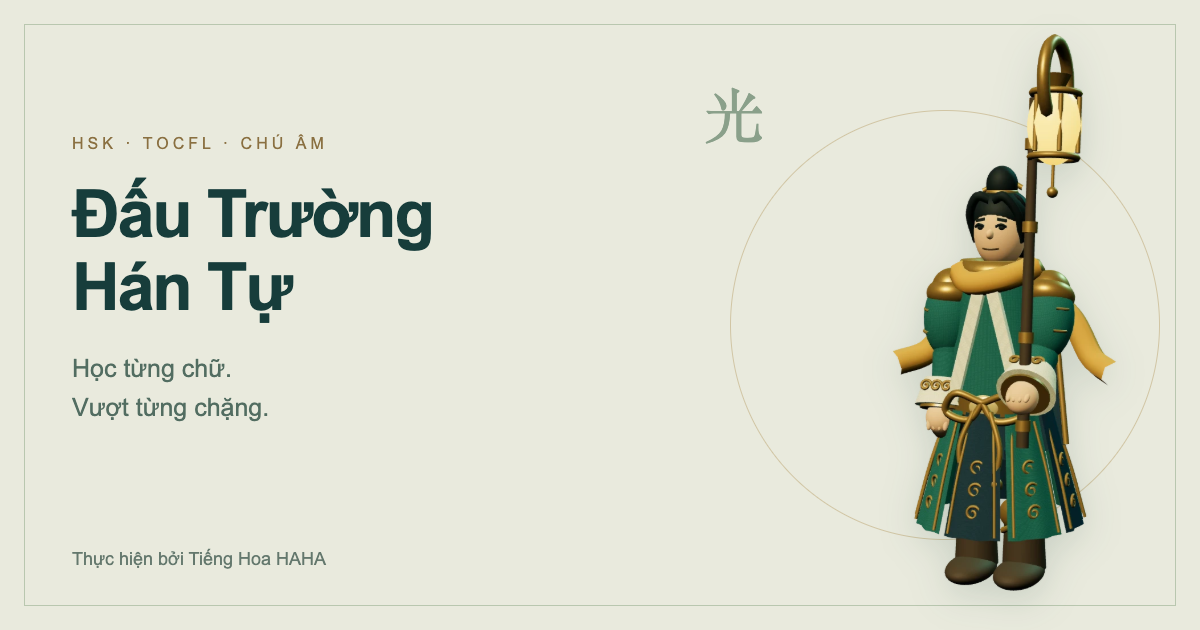
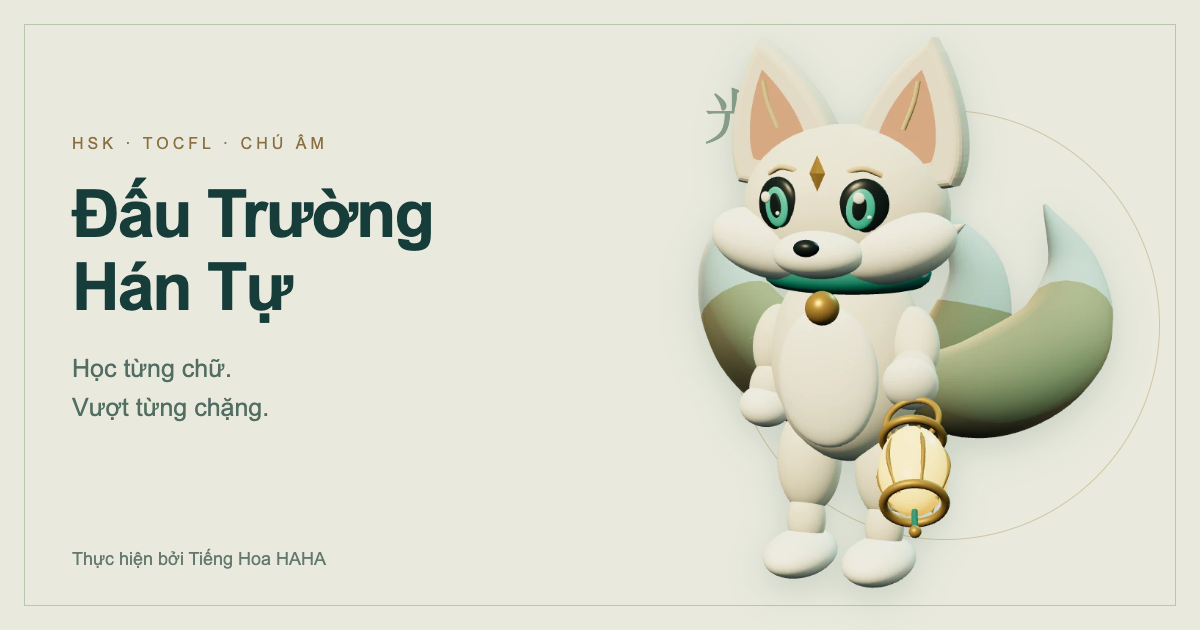
feat: replace human hero with articulated lantern fox

Changed region(s): [[0.555, 0.0603, 0.925, 0.9349]]

diff --git a/index.html b/index.html
@@ -6,7 +6,7 @@
  <section id="settings" class="settings-bar" hidden><label><input id="reduce-motion" type="checkbox"> Giảm chuyển động</label><label><input id="high-contrast" type="checkbox"> Tăng tương phản</label><label>Âm lượng <input id="volume" type="range" min="0" max="100" value="35"></label><p>Tiến độ và thành tích lưu trong trình duyệt này. Đổi máy hoặc xóa dữ liệu trình duyệt sẽ không có tiến độ cũ.</p></section>
  <main>
   <section id="setup-screen" class="screen setup-screen" aria-labelledby="setup-title">
-   <div class="setup-story"><h1 id="setup-title">Học từng chữ.<br>Vượt từng chặng.</h1><p>Chọn nội dung luyện trước. Mỗi chặng có tối đa 20 từ. Luyện mỗi từ đúng 3 lần, xen kẽ các từ khác, rồi hạ thủ lĩnh. Bạn có thể dừng và tiếp tục phần đang luyện trên máy này.</p><div class="story-art"><div class="orbit orbit-a"></div><div class="orbit orbit-b"></div><img src="/original/art/sculpted/hero-stand.webp" alt="Pháp sư cầm đèn, áo xanh thêu vàng" class="setup-hero"><span class="story-rune rune-one" aria-hidden="true">光</span><span class="story-rune rune-two" aria-hidden="true">風</span><span class="story-rune rune-three" aria-hidden="true">水</span><small>HỌC · TRIỆU HỒI · CHINH PHỤC</small></div></div>
+   <div class="setup-story"><h1 id="setup-title">Học từng chữ.<br>Vượt từng chặng.</h1><p>Chọn nội dung luyện trước. Mỗi chặng có tối đa 20 từ. Luyện mỗi từ đúng 3 lần, xen kẽ các từ khác, rồi hạ thủ lĩnh. Bạn có thể dừng và tiếp tục phần đang luyện trên máy này.</p><div class="story-art"><div class="orbit orbit-a"></div><div class="orbit orbit-b"></div><img src="/original/art/sculpted/hero-stand.webp" alt="Cáo nhỏ ba đuôi đeo khăn xanh, cầm đèn lồng" class="setup-hero"><span class="story-rune rune-one" aria-hidden="true">光</span><span class="story-rune rune-two" aria-hidden="true">風</span><span class="story-rune rune-three" aria-hidden="true">水</span><small>HỌC · TRIỆU HỒI · CHINH PHỤC</small></div></div>
    <div class="setup-form"><button id="home-back" class="route-back" type="button" disabled>← Quay lại</button><div class="step-marker"><span id="step-number">01</span><p id="step-label">CHỌN NỘI DUNG</p></div><h2 id="choice-title">Bạn muốn luyện gì?</h2><div id="mode-choices" class="mode-choices"><button data-mode="simplified" class="mode-choice"><b lang="zh-Hans">汉</b><span><strong>Chữ giản thể</strong><small>Nhập chữ Hán bằng bộ gõ tiếng Trung.</small></span><i>↗</i></button><button data-mode="traditional" class="mode-choice"><b lang="zh-Hant">漢</b><span><strong>Chữ phồn thể</strong><small>Luyện chữ phồn thể với HSK hoặc TOCFL.</small></span><i>↗</i></button><button data-mode="zhuyin" class="mode-choice"><b lang="zh-Hant">ㄅ</b><span><strong>Chú âm</strong><small>Dùng bàn phím tiếng Anh hoặc phím trên màn hình.</small></span><i>↗</i></button></div>
     <form id="level-form" hidden><button type="button" id="back-modes" class="text-button">← Đổi nội dung</button><p id="selected-mode" class="selected-mode"></p><label class="field-label" for="vocab-system">Hệ từ vựng</label><select id="vocab-system"><option value="hsk">HSK 3.0</option><option value="tocfl">TOCFL</option></select><label class="field-label" for="vocab-level">Cấp độ</label><select id="vocab-level"></select><label class="check-label"><input type="checkbox" id="cumulative"> Ôn cả từ vựng các cấp trước</label><p id="pool-description" class="pool-description" role="status"></p><p id="curriculum-note" class="muted"></p><button id="enter-lobby" type="submit" class="primary-button">Mở lộ trình <span>→</span></button></form>
     <p id="load-message" role="status" class="load-message"></p><details class="sources"><summary>Nguồn từ vựng &amp; thông tin trò chơi</summary><p>HSK: đề cương 11/2025; HSK 7–9 dùng chung một danh sách. TOCFL: danh sách 07/2023; C1–C2 dùng chung. Chữ phồn thể HSK được chuyển bằng OpenCC; chú âm được chuyển từ dữ liệu phát âm.</p><p>Chương trình chiến đấu và giao diện Đấu Trường Hán Tự được viết mới. Hình nhân vật có hỗ trợ AI; âm nhạc tổng hợp riêng. Dữ liệu từ vựng có nguồn và quyền sử dụng riêng.</p><p><a href="https://github.com/uranbekanarbaev/hsk-3.0-vocabulary-dataset" target="_blank" rel="noopener">Nguồn HSK</a> · <a href="https://github.com/ivankra/tocfl" target="_blank" rel="noopener">Nguồn TOCFL</a></p></details>
@@ -15,7 +15,7 @@
   <section id="lobby-screen" class="screen lobby-screen" hidden aria-labelledby="lobby-title"><div class="section-heading"><div><button id="lobby-back" class="route-back" type="button">← Chọn cấp độ</button><p class="eyebrow">LỘ TRÌNH CỦA BẠN</p><h1 id="lobby-title">Chọn chặng luyện.</h1><p id="lobby-selection"></p></div><button id="change-content" class="secondary-button">Đổi nội dung luyện</button></div><section class="curriculum-panel" aria-labelledby="curriculum-title"><div class="curriculum-heading"><div><p class="eyebrow">LỘ TRÌNH TOÀN BỘ TỪ VỰNG</p><h2 id="curriculum-title">Luyện hết bộ từ đã chọn.</h2></div><div class="coverage-total"><strong id="coverage-count">0 / 0</strong><span id="coverage-label"></span></div><button id="continue-learning" class="primary-button">Bắt đầu chặng 01 →</button></div><div class="coverage-track"><i id="coverage-fill"></i></div><p id="coverage-note"></p><div id="chapter-list" class="chapter-list"></div><nav class="chapter-pagination" aria-label="Trang danh sách chặng"><button id="chapters-prev" class="secondary-button">← Trước</button><span id="chapter-page"></span><button id="chapters-next" class="secondary-button">Tiếp →</button></nav><details class="vocabulary-catalog"><summary>Xem tất cả từ và tiến độ theo chặng</summary><label for="catalog-chapter">Chọn chặng để xem từ</label><select id="catalog-chapter"></select><div id="catalog-words" class="catalog-words"></div></details></section><details class="free-play"><summary>Đấu tự do · chọn đối thủ</summary><p>Mỗi trận có một thủ lĩnh và tối đa 20 từ được chọn ngẫu nhiên. Mỗi từ cần luyện đúng 3 lần, xen kẽ các từ khác; sau đó vẫn cần hạ thủ lĩnh. Tiến độ từ vựng được lưu vào lộ trình. Một trận không thay cho toàn bộ cấp độ.</p><div id="encounter-cards" class="encounter-cards"></div></details><div class="lobby-bottom"><div class="timing-card"><label for="lobby-seconds">Thời gian mỗi phù văn</label><div class="seconds-control"><button data-seconds="3">3s</button><button data-seconds="5">5s</button><button data-seconds="8">8s</button><button data-seconds="10">10s</button><input id="lobby-seconds" type="number" min="1" max="60" value="5" aria-label="Số giây mỗi phù văn, từ 1 đến 60"><span>giây</span></div><p>Chọn 8–10 giây nếu bạn cần thêm thời gian tìm chữ. Có thể đổi trong trận.</p></div><button id="endless-start" class="endless-card"><span>∞</span><div><strong>Đấu liên hoàn</strong><small>Tiếp tục đến khi hết HP hoặc bạn chọn dừng.</small></div><b>→</b></button></div><details class="how-to"><summary>Cách giao đấu</summary><ol><li>Chọn pháp thuật. Nhập đúng phù văn trước khi hết giờ để thi triển.</li><li>Ở lượt tấn công, đối thủ sẽ phản đòn nếu còn HP. Hộ thuẫn giúp hấp thụ sát thương.</li><li>Ở lượt phòng thủ, nhập đúng phù văn để chặn đòn và phản công. Không cần bấm F/J.</li><li>Nhập sai rồi sửa đúng vẫn gây sát thương, nhưng chưa được cộng vào 3 lần luyện đúng. Từ đó sẽ xuất hiện lại sau các từ khác.</li><li>Hết HP là kết thúc trận. Đấu tự do: luyện mỗi từ đủ 3 lần và hạ thủ lĩnh. Lộ trình: mỗi từ cần đúng 3 lần; HP thủ lĩnh cũng phải về 0. Giữa trận có tiếp sức; đối thủ không hồi HP. Khi chưa luyện đủ 3 lần mỗi từ, lớp bảo hộ giữ thủ lĩnh sống. Sau khi luyện đủ, tiếp tục gây sát thương nếu thủ lĩnh còn HP. Chỉ đấu liên hoàn mới có đối thủ mới sau mỗi lần hạ gục.</li></ol></details><p id="local-record" class="local-record"></p></section>
   <section id="battle-screen" class="screen battle-screen" hidden aria-label="Đấu trường">
    <div class="battle-heading"><div><p class="eyebrow" id="battle-kind">GIAO PHONG</p><h1 id="battle-title">Vườn kính</h1><p id="battle-selection"></p></div><div class="battle-tools"><button id="battle-back" class="route-back" type="button" aria-label="Quay lại · tạm dừng trận đấu">←</button><label for="battle-seconds">Giây / phù văn <input id="battle-seconds" type="number" min="1" max="60" value="5"></label><button id="pause-button" class="secondary-button">Tạm dừng <kbd>Esc</kbd></button></div></div>
-   <div class="battle-layout"><div class="arena-column"><div id="arena" class="summon-arena"><div class="arena-linework" aria-hidden="true"></div><svg id="spell-effect" class="spell-effect" viewBox="0 0 1000 500" preserveAspectRatio="none" aria-hidden="true"><path class="spell-ray" d="M155 370 Q350 65 800 165"/><circle class="spell-halo" cx="170" cy="340" r="82"/><circle class="spell-impact" cx="800" cy="170" r="65"/></svg><div class="round-strip"><span id="round-label">Vòng 1 / 3</span><span id="turn-label">Lượt 1</span><span id="battle-clock">0:00</span></div><div class="enemy-station"><div class="vital-card enemy-vital"><div><strong id="enemy-name">Ngọc vệ</strong><span id="enemy-hp-label">54 / 54</span></div><div class="vital-track"><i id="enemy-hp-fill"></i></div><small id="enemy-seals" hidden></small></div><img id="enemy-art" src="/original/art/sculpted/jade-guardian.webp" alt="Ngọc vệ, sinh vật giáp ngọc" draggable="false"></div><div class="hero-station"><img id="hero-art" src="/original/art/sculpted/hero-stand.webp" alt="Pháp sư triệu hồi" draggable="false"><div class="vital-card hero-vital"><div><strong>Bạn</strong><span id="hero-hp-label">100 / 100</span></div><div class="vital-track"><i id="hero-hp-fill"></i></div><small id="shield-label">Hộ thuẫn 0</small></div></div><div id="rune-zone" class="rune-zone"><p id="rune-action">PHÙ VĂN TẤN CÔNG</p><div id="active-rune" lang="zh-Hans">光</div><div id="zhuyin-progress" class="zhuyin-progress"></div><div class="rune-timer"><i id="rune-timer-fill"></i></div><span id="rune-seconds">5.0s</span></div><div id="battle-notice" class="battle-notice" role="status" aria-live="polite"></div></div>
+   <div class="battle-layout"><div class="arena-column"><div id="arena" class="summon-arena"><div class="arena-linework" aria-hidden="true"></div><svg id="spell-effect" class="spell-effect" viewBox="0 0 1000 500" preserveAspectRatio="none" aria-hidden="true"><path class="spell-ray" d="M155 370 Q350 65 800 165"/><circle class="spell-halo" cx="170" cy="340" r="82"/><circle class="spell-impact" cx="800" cy="170" r="65"/></svg><div class="round-strip"><span id="round-label">Vòng 1 / 3</span><span id="turn-label">Lượt 1</span><span id="battle-clock">0:00</span></div><div class="enemy-station"><div class="vital-card enemy-vital"><div><strong id="enemy-name">Ngọc vệ</strong><span id="enemy-hp-label">54 / 54</span></div><div class="vital-track"><i id="enemy-hp-fill"></i></div><small id="enemy-seals" hidden></small></div><img id="enemy-art" src="/original/art/sculpted/jade-guardian.webp" alt="Ngọc vệ, sinh vật giáp ngọc" draggable="false"></div><div class="hero-station"><img id="hero-art" src="/original/art/sculpted/hero-stand.webp" alt="Cáo nhỏ cầm đèn lồng" draggable="false"><div class="vital-card hero-vital"><div><strong>Bạn</strong><span id="hero-hp-label">100 / 100</span></div><div class="vital-track"><i id="hero-hp-fill"></i></div><small id="shield-label">Hộ thuẫn 0</small></div></div><div id="rune-zone" class="rune-zone"><p id="rune-action">PHÙ VĂN TẤN CÔNG</p><div id="active-rune" lang="zh-Hans">光</div><div id="zhuyin-progress" class="zhuyin-progress"></div><div class="rune-timer"><i id="rune-timer-fill"></i></div><span id="rune-seconds">5.0s</span></div><div id="battle-notice" class="battle-notice" role="status" aria-live="polite"></div></div>
     <div id="mobile-spells" class="mobile-spells"></div><form id="cast-form" class="cast-form"><label for="hanzi-input" id="cast-label">Nhập phù văn trên sân</label><div><input id="hanzi-input" type="text" lang="zh" inputmode="text" enterkeyhint="go" autocorrect="off" autocomplete="off" autocapitalize="off" spellcheck="false" placeholder="Gõ và chọn chữ Hán"><button class="primary-button" type="submit">Thi triển <span>↵</span></button></div><p id="input-hint">Chọn chữ trong bộ gõ. Gõ đúng cả từ để thi triển.</p></form>
     <div id="touch-keyboard" class="touch-keyboard" hidden><div class="keyboard-heading"><strong>Bàn phím chú âm</strong><small>Chạm ký hiệu tiếp theo hoặc bấm phím tiếng Anh.</small></div><div id="zhuyin-keys" class="zhuyin-keys"></div></div>
    </div><aside class="tactics-panel"><div class="intent-card"><p class="eyebrow">ĐỐI THỦ SẮP LÀM GÌ?</p><h2 id="enemy-intent">Phản đòn</h2><p id="intent-detail">Hoàn thành phù văn để ra chiêu.</p></div><div class="spell-heading"><h2>Pháp thuật của bạn</h2><span id="energy-label">Năng lượng 2 / 3</span></div><div class="spell-list"><button data-spell="strike" title="Xung kích: 18 sát thương, nhận 1 năng lượng. Không tốn năng lượng." class="spell-card selected"><span class="spell-symbol"><img src="/original/art/skills/strike.svg" alt="" draggable="false"></span><span><strong>Xung kích</strong><small>18 sát thương · nhận 1 năng lượng</small></span><em>0</em></button><button data-spell="ward" title="Hộ thuẫn: 10 sát thương, thêm 14 khiên. Tốn 1 năng lượng." class="spell-card"><span class="spell-symbol"><img src="/original/art/skills/ward.svg" alt="" draggable="false"></span><span><strong>Hộ thuẫn</strong><small>10 sát thương · thêm 14 khiên</small></span><em>1</em></button><button data-spell="mend" title="Hồi phục: 9 sát thương, hồi 12 HP. Tốn 2 năng lượng." class="spell-card"><span class="spell-symbol"><img src="/original/art/skills/mend.svg" alt="" draggable="false"></span><span><strong>Hồi phục</strong><small>9 sát thương · hồi 12 HP</small></span><em>2</em></button></div><div class="live-stats"><div><span>Đúng</span><strong id="live-correct">0</strong></div><div><span>Chính xác</span><strong id="live-accuracy">—</strong></div><div><span>Chuỗi</span><strong id="live-combo">0</strong></div></div><details class="battle-help"><summary>Nhắc nhanh cách chơi</summary><p>Chọn pháp thuật rồi nhập phù văn. Phòng thủ thành công sẽ chặn đòn và phản công. Hết giờ chịu 22 sát thương; nhập sai chịu 4 sát thương (chú âm: 3 mỗi phím sai). Khiên hấp thụ sát thương trước HP. Mỗi chặng có một thủ lĩnh với HP tính theo số từ. Nhập đúng tất cả từ để phá hết phong ấn và tung đòn kết liễu. Mỗi từ chưa hoàn thành giữ một phần HP được bảo vệ; phá hết phong ấn mới hạ được đối thủ. Tiếp sức giữa chặng không hồi HP cho đối thủ.</p><p>Năng lượng tối đa 3. Xung kích nạp năng lượng, Hộ thuẫn tốn 1, Hồi phục tốn 2. Xung kích: 18 sát thương. Hộ thuẫn: 10 sát thương và 14 khiên. Hồi phục: 9 sát thương và hồi 12 HP. Lượt phòng thủ gây 10 sát thương cơ bản. Thưởng tiếp sức có thể tăng sát thương.</p></details><button id="end-run" class="text-button">Dừng và xem kết quả</button></aside></div>

diff --git a/src/summoner/lantern-fox.js b/src/summoner/lantern-fox.js
@@ -1,0 +1,110 @@
+import * as T from 'three';
+
+// A purpose-built animal silhouette; no humanoid face, clothing or staff rig.
+const material=(color,roughness=.75,extra={})=>new T.MeshStandardMaterial({color,roughness,...extra});
+const fur=material('#f4e8d3'),white=material('#fff8e9'),warm=material('#d7b98d'),earPink=material('#cf9585');
+const teal=material('#287c73'),dark=material('#123b3a'),iris=material('#46b9a3',.3),ink=material('#202c30',.32);
+const gold=material('#cda255',.38,{metalness:.55}),glow=material('#ffe7a0',.35,{emissive:'#ffa431',emissiveIntensity:.8});
+const mesh=(parent,geo,mat,pos=[0,0,0],scale=[1,1,1])=>{const n=new T.Mesh(geo,mat);n.position.set(...pos);n.scale.set(...scale);n.castShadow=n.receiveShadow=true;parent.add(n);return n;};
+const ellipsoid=(p,r,m,pos,scale=[1,1,1])=>mesh(p,new T.SphereGeometry(r,32,24),m,pos,scale);
+const joint=(p,name,pos)=>{const n=new T.Group();n.name=name;n.position.set(...pos);p.add(n);return n;};
+const tube=(p,points,r,m)=>mesh(p,new T.TubeGeometry(new T.CatmullRomCurve3(points.map(v=>new T.Vector3(...v))),32,r,8,false),m);
+function ear(parent,side){
+ const pivot=joint(parent,'ear',[side*.29,.25,-.035]);pivot.rotation.z=-side*.22;
+ const shape=new T.Shape();shape.moveTo(-.21,-.05);shape.bezierCurveTo(-.23,.10,-.14,.31,0,.48);shape.bezierCurveTo(.14,.31,.25,.08,.21,-.05);shape.quadraticCurveTo(0,-.14,-.21,-.05);
+ const outer=mesh(pivot,new T.ExtrudeGeometry(shape,{depth:.085,bevelEnabled:true,bevelThickness:.045,bevelSize:.038,bevelSegments:4,curveSegments:20}),fur,[0,0,-.04]);
+ mesh(pivot,new T.ShapeGeometry(shape,24),earPink,[0,.045,.10],[.62,.72,1]);
+ tube(pivot,[[side*-.02,.12,.115],[0,.24,.116],[0,.34,.115]],.012,warm);
+ return pivot;
+}
+function tail(parent,name,points){
+ const pivot=joint(parent,name,[0,-.15,-.25]),path=new T.CatmullRomCurve3(points.map(p=>new T.Vector3(...p))),frames=path.computeFrenetFrames(40,false),v=[],norm=[],uv=[],idx=[];
+ // Smooth tapered brush tail, cream body with an ivory tip.
+ for(let row=0;row<=40;row++){
+  const t=row/40,c=path.getPointAt(t),r=.008+Math.sin(Math.PI*Math.pow(t,.78))*.255;
+  for(let col=0;col<=16;col++){const a=col/16*Math.PI*2,n=frames.normals[row].clone().multiplyScalar(Math.cos(a)).addScaledVector(frames.binormals[row],Math.sin(a));v.push(c.x+n.x*r,c.y+n.y*r,c.z+n.z*r);norm.push(n.x,n.y,n.z);uv.push(col/16,t);}
+ }
+ for(let row=0;row<40;row++)for(let col=0;col<16;col++){const a=row*17+col;idx.push(a,a+17,a+1,a+1,a+17,a+18);}
+ const g=new T.BufferGeometry();g.setAttribute('position',new T.Float32BufferAttribute(v,3));g.setAttribute('normal',new T.Float32BufferAttribute(norm,3));g.setAttribute('uv',new T.Float32BufferAttribute(uv,2));g.setIndex(idx);g.addGroup(0,16*6*27,0);g.addGroup(16*6*27,16*6*13,1);const n=mesh(pivot,g,[warm,white]);
+ return pivot;
+}
+export function createLanternFox(actor){
+ const {root,joints:j}=actor;actor.isFox=true;
+ const body=j.body=joint(root,'fox-body',[0,1.0,0]);
+ ellipsoid(body,.39,fur,[0,0,0],[.92,1.22,.82]);
+ ellipsoid(body,.30,white,[0,-.045,.255],[.78,1.06,.34]);
+ const head=j.head=joint(body,'fox-head',[0,.67,.035]);
+ ellipsoid(head,.43,fur,[0,0,0],[1.12,.91,.85]);
+ // Long pointed cheek tufts and a small forward muzzle make the fox readable.
+ for(const s of [-1,1]){
+  const cheek=ellipsoid(head,.23,white,[s*.30,-.14,.17],[1.2,.65,.82]);cheek.rotation.z=s*.28;
+  const tuft=mesh(head,new T.ConeGeometry(.12,.28,24),fur,[s*.46,-.10,.07]);tuft.rotation.z=-s*1.05;
+  const eye=joint(head,'eye-'+s,[s*.195,.045,.306]);eye.rotation.y=s*.32;eye.rotation.z=-s*.13;
+  ellipsoid(eye,.108,ink,[0,0,0],[1.03,1.15,.35]);
+  ellipsoid(eye,.078,iris,[-s*.012,-.006,.031],[.80,1.12,.20]);
+  ellipsoid(eye,.049,ink,[-s*.018,.0,.046],[.62,1.10,.15]);
+  ellipsoid(eye,.025,white,[-.025,.041,.055],[1,1,.45]);ellipsoid(eye,.010,white,[.030,-.035,.05]);
+  j[s<0?'eyeL':'eyeR']=eye;
+  tube(head,[[s*.10,.19,.29],[s*.19,.21,.29],[s*.26,.18,.255]],.012,warm);
+ }
+ ellipsoid(head,.17,white,[0,-.16,.335],[1.2,.62,.95]);
+ const nose=ellipsoid(head,.057,ink,[0,-.12,.483],[1,.65,.68]);nose.rotation.z=Math.PI;
+ tube(head,[[0,-.15,.474],[0,-.19,.474],[-.053,-.207,.447]],.007,dark);
+ tube(head,[[0,-.19,.474],[.053,-.207,.447]],.007,dark);
+ const rune=mesh(head,new T.OctahedronGeometry(.060),gold,[0,.19,.351],[.6,1.3,.25]);
+ j.earL=ear(head,-1);j.earR=ear(head,1);
+ // Soft scarf and two loose ends; gold is reserved for small trim and the bell.
+ const collar=mesh(body,new T.TorusGeometry(.265,.072,12,48),teal,[0,.39,.01],[1.14,1,.90]);collar.rotation.x=Math.PI/2;
+ const scarf=j.cape=joint(body,'scarf-tail',[-.17,.37,-.13]);
+ const ribbon=new T.Shape();ribbon.moveTo(-.08,0);ribbon.bezierCurveTo(-.12,-.2,-.35,-.25,-.32,-.51);ribbon.lineTo(-.23,-.47);ribbon.lineTo(-.17,-.54);ribbon.bezierCurveTo(-.15,-.30,.07,-.27,.08,0);ribbon.closePath();
+ const rm=teal.clone();rm.side=T.DoubleSide;mesh(scarf,new T.ShapeGeometry(ribbon,24),rm);tube(scarf,[[-.07,-.04,.01],[-.10,-.18,.01],[-.24,-.36,.01],[-.25,-.46,.01]],.009,gold);
+ ellipsoid(body,.075,gold,[0,.27,.33]);tube(body,[[-.035,.28,.383],[.035,.28,.383]],.006,dark);
+ for(const [side,s]of [['L',-1],['R',1]]){
+  const arm=j['arm'+side]=joint(body,'fox-arm-'+side,[s*.29,.16,.015]);
+  ellipsoid(arm,.125,fur,[s*.03,-.11,.025],[.87,1.45,.9]);
+  const fore=j['fore'+side]=joint(arm,'fox-wrist-'+side,[s*.015,-.25,.03]);
+  ellipsoid(fore,.115,fur,[0,-.06,.03],[.9,1.15,.9]);
+  const paw=j['hand'+side]=joint(fore,'fox-paw-'+side,[0,-.14,.06]);ellipsoid(paw,.12,white,[0,0,.015],[1,.8,1.1]);
+  for(let k=0;k<2;k++)tube(paw,[[(k-.5)*.045,-.04,.11],[(k-.5)*.045,.0,.12]],.005,warm);
+  const hip=j['leg'+side]=joint(root,'fox-hip-'+side,[s*.19,.70,.0]);
+  ellipsoid(hip,.15,fur,[0,-.19,0],[1,1.65,1]);
+  const knee=j['knee'+side]=joint(hip,'fox-ankle-'+side,[0,-.33,.025]);
+  ellipsoid(knee,.09,fur,[0,-.13,.015],[1,1.5,1]);ellipsoid(knee,.16,white,[0,-.27,.09],[.98,.62,1.55]);
+ }
+ j.tail=tail(body,'fox-tail-center',[[0,0,0],[0,-.20,-.45],[.18,-.02,-.9],[.25,.40,-1.0],[.05,.78,-.88]]);
+ j.tailL=tail(body,'fox-tail-left',[[-.10,0,0],[-.45,-.08,-.40],[-.77,.10,-.48],[-.87,.48,-.30],[-.78,.75,-.20]]);
+ j.tailR=tail(body,'fox-tail-right',[[.10,0,0],[.45,-.08,-.40],[.79,.13,-.48],[.92,.53,-.25],[.81,.84,-.14]]);
+ // Lantern hangs below the outstretched paw instead of a long human weapon.
+ const lantern=j.lantern=joint(j.handR,'fox-lantern',[0,-.10,.0]);
+ const handle=mesh(lantern,new T.TorusGeometry(.115,.014,8,32),gold,[0,-.10,0]);
+ const glass=ellipsoid(lantern,.18,glow,[0,-.37,0],[.8,1.15,.8]);
+ for(const y of [-.20,-.54]){const r=mesh(lantern,new T.TorusGeometry(.125,.018,8,32),gold,[0,y,0]);r.rotation.x=Math.PI/2;}
+ for(let i=0;i<6;i++){const a=i*Math.PI/3; tube(lantern,[[Math.cos(a)*.09,-.21,Math.sin(a)*.09],[Math.cos(a)*.147,-.37,Math.sin(a)*.147],[Math.cos(a)*.09,-.54,Math.sin(a)*.09]],.009,gold);}
+ tube(lantern,[[0,-.55,0],[0,-.68,0]],.012,teal);ellipsoid(lantern,.025,gold,[0,-.68,0]);
+ return actor;
+}
+export function poseLanternFox(actor,action,p,time,reduced){
+ const j=actor.joints;actor.root.position.set(0,0,0);actor.root.rotation.set(0,0,0);Object.values(j).forEach(n=>n.rotation.set(0,0,0));
+ j.body.position.y=1; j.armL.rotation.z=-.13;j.armR.rotation.z=.28;j.armR.rotation.x=-.65;j.foreR.rotation.x=-.25;
+ j.earL.rotation.z=.22;j.earR.rotation.z=-.22;
+ j.eyeL.rotation.set(0,-.32,.13);j.eyeR.rotation.set(0,.32,-.13);j.eyeL.scale.y=j.eyeR.scale.y=1;
+ if(reduced)return;
+ const blink=(time%5.2);j.eyeL.scale.y=j.eyeR.scale.y=blink>4.8?1-Math.sin((blink-4.8)/.4*Math.PI)*.92:1;
+ const wave=Math.sin(time*2.4);j.body.position.y=1+wave*.016;j.head.rotation.z=Math.sin(time*1.4)*.035;
+ j.tail.rotation.y=Math.sin(time*1.7)*.18;j.tailL.rotation.z=Math.sin(time*2+.4)*.09;j.tailR.rotation.z=Math.sin(time*2+1.4)*.09;j.cape.rotation.x=wave*.12;
+ j.lantern.rotation.z=Math.sin(time*2)*.10;
+ const pulse=Math.sin(Math.PI*p),strike=Math.exp(-Math.pow((p-.48)/.17,2));
+ if(action==='attack'){
+  actor.root.position.z=strike*.58-Math.sin(Math.PI*Math.min(1,p/.3))*.06;actor.root.position.y=Math.sin(Math.PI*p)*.08;
+  j.body.rotation.y=Math.sin(p*Math.PI*2)*-.22;j.body.rotation.x=strike*.15;
+  j.armL.rotation.x=-pulse*1.7;j.foreL.rotation.x=-pulse*.4;j.armR.rotation.x=-.65-pulse*.55;j.foreR.rotation.x=-.25-pulse*.35;
+  j.legL.rotation.x=-strike*.35;j.kneeL.rotation.x=strike*.35;j.legR.rotation.x=strike*.25;
+  j.tail.rotation.y+=pulse*.45;j.tailL.rotation.x=-pulse*.3;j.tailR.rotation.x=-pulse*.3;j.lantern.rotation.x=pulse*.35;
+ }else if(action==='hit'){
+  actor.root.position.z=-pulse*.25;j.body.rotation.x=-pulse*.25;j.head.rotation.x=-pulse*.2;j.earL.rotation.z+=pulse*.45;j.earR.rotation.z-=pulse*.45;j.armL.rotation.x=-pulse*.6;j.armR.rotation.x=-.65-pulse*.3;
+ }else if(action==='guard'){
+  j.armL.rotation.x=-pulse*1.8;j.foreL.rotation.x=-pulse*.55;j.body.rotation.x=pulse*.1;j.kneeL.rotation.x=pulse*.3;j.tailL.rotation.y=-pulse*.5;j.tailR.rotation.y=pulse*.5;
+ }else if(action==='heal'){
+  j.armR.rotation.x=-.65-pulse*1.1;j.foreR.rotation.x=-.25-pulse*.35;j.head.rotation.x=-pulse*.12;actor.root.position.y=pulse*.12;
+ }
+}

diff --git a/animation-lab/preview.html b/animation-lab/preview.html
@@ -1,1 +1,1 @@
-<!doctype html><html lang="vi"><meta charset="utf-8"><meta name="viewport" content="width=device-width, initial-scale=1"><title>Combat animation study</title><style>*{box-sizing:border-box}body{margin:0;background:#102f34;color:#f3e8ce;font:15px/1.6 Arial,sans-serif}header{padding:20px 28px;display:flex;justify-content:space-between;align-items:center;border-bottom:1px solid #dcb76b44}h1{margin:0;font-size:22px}a{color:#a7d8cc}main{max-width:1280px;margin:auto}canvas{width:100%;height:min(65vh,660px);display:block}.controls{display:flex;flex-wrap:wrap;gap:10px;padding:20px 28px}button,select{font:inherit;background:#204b50;border:1px solid #75928c;color:#fff0cf;border-radius:7px;padding:10px 16px;cursor:pointer}button:hover{background:#326068}button:focus-visible,select:focus-visible{outline:3px solid #e5bd6e;outline-offset:3px}p{padding:0 28px;color:#adcbc3}#status{color:#f7d798;min-height:26px}</style><header><h1>Đấu Trường Hán Tự · 3D motion study</h1><a href="http://localhost:3011/CombatStudy">Mở trong Remotion ↗</a></header><main><canvas id="stage"></canvas><div class="controls"><select id="opponent" aria-label="Đối thủ"><option value="guardian">Ngọc vệ</option><option value="moth">Linh điệp</option><option value="sentinel">Đèn vệ</option></select><button data-action="strike">Tấn công</button><button data-action="ward">Hộ thuẫn</button><button data-action="defense">Phòng thủ</button><button data-action="hit">Bị đánh trúng</button><button data-action="mend">Hồi phục</button><button id="auto" aria-pressed="true">Phát / dừng chuỗi</button><select id="speed" aria-label="Tốc độ"><option value="1">Tốc độ bình thường</option><option value="0.5">Chậm 0,5×</option></select></div><p id="status">Chọn động tác để xem chuyển động của tay, chân, thân người và vũ khí.</p><p>Bản thử nghiệm nhân vật 3D. <a href="/">Chơi thử trong trò chơi ↗</a></p></main><script type="module">import {createCombatStage} from '../src/summoner/combat-scene3d.js';const canvas=document.querySelector('#stage'),stage=createCombatStage(canvas,{showcase:true});let event=null,start=0,speed=1,auto=false,last=0;const actions={strike:{outcome:'correct',spell:'strike',counter:true},ward:{outcome:'correct',spell:'ward',counter:true,blocked:7},defense:{outcome:'correct',spell:'strike',defending:true},hit:{outcome:'timeout',counter:true},mend:{outcome:'correct',spell:'mend',counter:true,heal:12}},labels={strike:'Lấy đà → bước tới → vung trượng → phản đòn',ward:'Ra chiêu → dựng khiên → đỡ đòn',defense:'Hạ trọng tâm → đưa tay lên đỡ đòn',hit:'Thủ lĩnh lấy đà và ra đòn → người chơi chịu đòn',mend:'Nâng trượng → hồi phục'};function play(action){event=actions[action];start=performance.now();document.querySelector('#status').textContent=labels[action];}document.querySelectorAll('[data-action]').forEach(b=>b.onclick=()=>{auto=false;document.querySelector('#auto').setAttribute('aria-pressed','false');play(b.dataset.action)});document.querySelector('#opponent').onchange=e=>stage.setOpponent(e.target.value);document.querySelector('#speed').onchange=e=>speed=Number(e.target.value);document.querySelector('#auto').onclick=()=>{auto=!auto;document.querySelector('#auto').setAttribute('aria-pressed',String(auto));start=performance.now();play('strike');};function frame(now){stage.resize(canvas.clientWidth,canvas.clientHeight);const elapsed=(now-start)/1000*speed;stage.draw(now/1000,event,elapsed);if(auto&&elapsed>3){const keys=Object.keys(actions);play(keys[(last++)%keys.length]);}requestAnimationFrame(frame)}play('strike');auto=true;requestAnimationFrame(frame);window.__combatStudy={stage,play};</script></html>
+<!doctype html><html lang="vi"><meta charset="utf-8"><meta name="viewport" content="width=device-width, initial-scale=1"><title>Combat animation study</title><style>*{box-sizing:border-box}body{margin:0;background:#102f34;color:#f3e8ce;font:15px/1.6 Arial,sans-serif}header{padding:20px 28px;display:flex;justify-content:space-between;align-items:center;border-bottom:1px solid #dcb76b44}h1{margin:0;font-size:22px}a{color:#a7d8cc}main{max-width:1280px;margin:auto}canvas{width:100%;height:min(65vh,660px);display:block}.controls{display:flex;flex-wrap:wrap;gap:10px;padding:20px 28px}button,select{font:inherit;background:#204b50;border:1px solid #75928c;color:#fff0cf;border-radius:7px;padding:10px 16px;cursor:pointer}button:hover{background:#326068}button:focus-visible,select:focus-visible{outline:3px solid #e5bd6e;outline-offset:3px}p{padding:0 28px;color:#adcbc3}#status{color:#f7d798;min-height:26px}</style><header><h1>Đấu Trường Hán Tự · 3D motion study</h1><a href="http://localhost:3011/CombatStudy">Mở trong Remotion ↗</a></header><main><canvas id="stage"></canvas><div class="controls"><select id="opponent" aria-label="Đối thủ"><option value="guardian">Ngọc vệ</option><option value="moth">Linh điệp</option><option value="sentinel">Đèn vệ</option></select><button data-action="strike">Tấn công</button><button data-action="ward">Hộ thuẫn</button><button data-action="defense">Phòng thủ</button><button data-action="hit">Bị đánh trúng</button><button data-action="mend">Hồi phục</button><button id="auto" aria-pressed="true">Phát / dừng chuỗi</button><select id="speed" aria-label="Tốc độ"><option value="1">Tốc độ bình thường</option><option value="0.5">Chậm 0,5×</option></select></div><p id="status">Chọn động tác để xem chuyển động của chân, tai, đuôi và đèn lồng.</p><p>Bản thử nghiệm nhân vật 3D. <a href="/">Chơi thử trong trò chơi ↗</a></p></main><script type="module">import {createCombatStage} from '../src/summoner/combat-scene3d.js';const canvas=document.querySelector('#stage'),stage=createCombatStage(canvas,{showcase:true});let event=null,start=0,speed=1,auto=false,last=0;const actions={strike:{outcome:'correct',spell:'strike',counter:true},ward:{outcome:'correct',spell:'ward',counter:true,blocked:7},defense:{outcome:'correct',spell:'strike',defending:true},hit:{outcome:'timeout',counter:true},mend:{outcome:'correct',spell:'mend',counter:true,heal:12}},labels={strike:'Lấy đà → giơ chân trước → phóng đốm lửa → phản đòn',ward:'Ra chiêu → dựng khiên → đỡ đòn',defense:'Hạ trọng tâm → đưa tay lên đỡ đòn',hit:'Thủ lĩnh lấy đà và ra đòn → người chơi chịu đòn',mend:'Nâng đèn → hồi phục'};function play(action){event=actions[action];start=performance.now();document.querySelector('#status').textContent=labels[action];}document.querySelectorAll('[data-action]').forEach(b=>b.onclick=()=>{auto=false;document.querySelector('#auto').setAttribute('aria-pressed','false');play(b.dataset.action)});document.querySelector('#opponent').onchange=e=>stage.setOpponent(e.target.value);document.querySelector('#speed').onchange=e=>speed=Number(e.target.value);document.querySelector('#auto').onclick=()=>{auto=!auto;document.querySelector('#auto').setAttribute('aria-pressed',String(auto));start=performance.now();play('strike');};function frame(now){stage.resize(canvas.clientWidth,canvas.clientHeight);const elapsed=(now-start)/1000*speed;stage.draw(now/1000,event,elapsed);if(auto&&elapsed>3){const keys=Object.keys(actions);play(keys[(last++)%keys.length]);}requestAnimationFrame(frame)}play('strike');auto=true;requestAnimationFrame(frame);window.__combatStudy={stage,play};</script></html>

diff --git a/src/summoner/combat-scene3d.js b/src/summoner/combat-scene3d.js
@@ -1,4 +1,5 @@
 import * as T from 'three';
+import {createLanternFox,poseLanternFox} from './lantern-fox.js';
 import {refineFighter,texturePalette} from './combat-sculpt.js';
 const mat=(color,metalness=.15,roughness=.55,extra={})=>new T.MeshStandardMaterial({color,metalness,roughness,...extra});
 const palette={jade:mat('#397b70',.18,.48),jadeLight:mat('#79a38b',.12,.5),jadeDark:mat('#174b49',.28,.6),gold:mat('#b89550',.72,.40),goldLight:mat('#f9d78b',.55,.3),navy:mat('#18394a',.05,.8),teal:mat('#28645e',.02,.88),cloth:mat('#e7dfbb',0,.85),skin:mat('#e1ad83',.02,.8),hair:mat('#17272b',.1,.65),boot:mat('#483e32',.12,.65),light:mat('#ffdb72',.2,.3,{emissive:'#ffad38',emissiveIntensity:1.5}),eye:mat('#ffdb86',.2,.2,{emissive:'#ffbd52',emissiveIntensity:2}),white:mat('#f1eee1',.1,.6)};
@@ -15,6 +16,7 @@ function leg(parent,name,x,y,joints,big=false){const hip=joint(parent,'hip-'+nam
 function lantern(parent,x,y,z,scale=1){const g=joint(parent,'lantern',x,y,z);g.scale.setScalar(scale);orb(g,.22,palette.light,0,0,0,[.9,1.3,.9]);for(let i=0;i<6;i++){const a=i*Math.PI/3;line(g,[Math.cos(a)*.18,-.2,Math.sin(a)*.18],[Math.cos(a)*.18,.2,Math.sin(a)*.18],.018,palette.gold);}for(const y of [-.23,.23]){const r=ring(g,.17,.025,palette.gold,0,y,0);r.rotation.x=Math.PI/2;}cyl(g,.11,.05,.12,palette.gold,0,.3,0);line(g,[0,-.26,0],[0,-.47,0],.012,palette.gold);orb(g,.04,palette.gold,0,-.48,0);return g;}
 export function createFighter(kind='hero'){
  const group=new T.Group(),root=joint(group,kind,0,0,0),joints={},actor={kind,group,root,joints};
+ if(kind==='hero')return createLanternFox(actor);
  if(kind==='moth'){
   const body=joint(root,'body',0,1.45,0);joints.body=body;cyl(body,.13,.07,1.05,palette.jadeDark,0,-.1,0);orb(body,.2,palette.gold,0,.47,0);orb(body,.17,palette.jade,0,.48,.07);orb(body,.05,palette.eye,-.1,.51,.19);orb(body,.05,palette.eye,.1,.51,.19);
   const shape=new T.Shape();shape.moveTo(0,0);shape.bezierCurveTo(.25,.65,1.2,1.24,1.22,.9);shape.bezierCurveTo(1.3,.33,.88,.1,.4,-.06);shape.bezierCurveTo(1.45,-.17,1.34,-.85,.9,-.72);shape.bezierCurveTo(.5,-.65,.2,-.25,0,0);
@@ -45,6 +47,7 @@ export function createFighter(kind='hero'){
 }
 const key=(t,values)=>{const times=[0,.2,.43,.57,.83,1];for(let i=1;i<times.length;i++)if(t<=times[i]){let p=Math.max(0,(t-times[i-1])/(times[i]-times[i-1]));p=p*p*(3-2*p);return T.MathUtils.lerp(values[i-1],values[i],p);}return values.at(-1);};
 export function poseFighter(a,action='idle',progress=0,time=0,reduced=false){
+ if(a.isFox)return poseLanternFox(a,action,Math.max(0,Math.min(1,progress)),time,reduced);
  const j=a.joints,p=Math.max(0,Math.min(1,progress)),hero=a.kind==='hero',attack=action==='attack',hit=action==='hit',guard=action==='guard',heal=action==='heal';a.root.position.set(0,0,0);a.root.rotation.set(0,0,0);Object.values(j).forEach(n=>n.rotation.set(0,0,0));
  if(a.kind==='moth'){const flap=reduced?0:Math.sin(time*7)*.55;a.root.position.y=reduced?.2:.2+Math.sin(time*3)*.08;j.wingL.rotation.y=-.12-flap;j.wingR.rotation.y=.12+flap;j.wingL.rotation.z=-.12;j.wingR.rotation.z=.12;j.body.rotation.x=attack?key(p,[0,-.35,.8,.8,.2,0]):hit?Math.sin(p*12)*.2*(1-p):0;if(attack)a.root.position.z=key(p,[0,-.2,.65,.7,.2,0]);return;}
  j.armL.rotation.x=-.12;j.armR.rotation.x=hero?-.4:-.12;j.foreL.rotation.x=-.18;j.foreR.rotation.x=hero?-.6:-.2;if(j.staff)j.staff.rotation.x=.9;if(j.cape)j.cape.rotation.x=-.15;

diff --git a/docs/sculpted-combat-2026-10-17.md b/docs/sculpted-combat-2026-10-17.md
@@ -1,6 +1,6 @@
 # Refined articulated characters · local preview
 
-The existing Three.js / Remotion joint animation is preserved. The hero now has swept hair, smaller face proportions, layered sleeves, cloth folds, embroidered robe panels, scarf tails, a waist knot and pendants. The jade guardian has a lion muzzle, curled brows and mane, curved antlers, an ornamental back arch, layered armor, fingers and tassels. Moth wing eyespots and veins and sentinel ornaments are refined too. Procedural jade veining, fabric grain and metal roughness are shared by runtime and stills.
+The human hero has been replaced with a purpose-built cream three-tailed lantern fox (`lantern-fox.js`). Its paws, ears, head, scarf, lantern and three tails have independent joints. Attack, guard, heal, hit reactions and reduced-motion poses are designed for the animal. Idle includes breathing, tail sway and blinking. Three.js and Remotion still share the same actor and event timings. The jade guardian has a lion muzzle, curled brows and mane, curved antlers, an ornamental back arch, layered armor, fingers and tassels. Moth wing eyespots and veins and sentinel ornaments are refined too. Procedural jade veining, fabric grain and metal roughness are shared by runtime and stills.
 
 `combat-sculpt.js` attaches ornament to the original joints and batches static geometry per joint/material. It does not merge independently animated bones. These remain stylized procedural models; they do not reproduce the original illustration's intricate sculpting and painted detail.
 
@@ -11,3 +11,5 @@ Preview: http://localhost:5186/ and http://localhost:5186/animation-lab/preview.
 Rebuild stills with the local Vite server running: execute `scripts/capture-refined-portraits.js` with the Playwright CLI, then convert the four PNG captures in `output/sculpted/` to WebP in `public/original/art/sculpted/` with cwebp. `animation-lab/portraits.html` sets the camera and lights. Capture `scripts/capture-refined-cover.js` to regenerate the 1200×630 social cover.
 
 Validation: all 47 unit tests pass; production build passes. Browser combat checks passed for guardian at 1366px, moth at 390px and sentinel with Zhuyin at 320px: correct input, damage, one 3D canvas, detailed history, no horizontal overflow and no JavaScript errors. Browser requestAnimationFrame averaged 16.7ms in this desktop environment; that is not a physical phone performance measurement.
+
+Fox revision verification: all 47 tests and production build pass. Combat browser checks pass at 1366px, 390px and 320px with all three opponents; home and chapter images load at desktop and mobile widths without overflow. The updated hero still and social cover are native captures of the runtime character. This remains a local preview.
